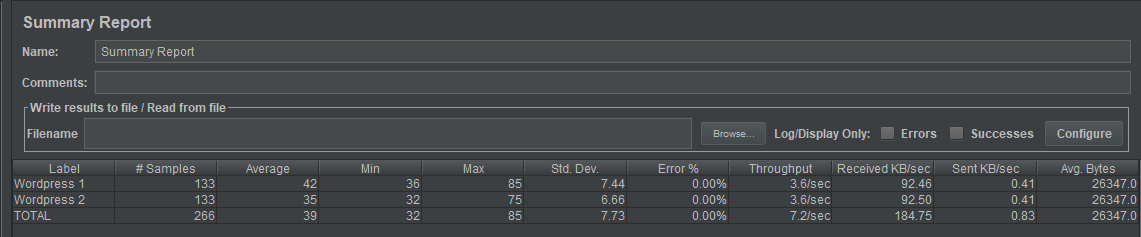
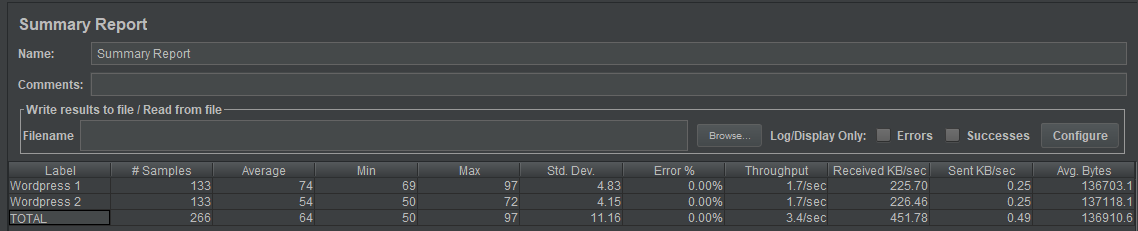
Mengganti Gambar

diff --git a/tugas-redis/README.md b/tugas-redis/README.md
@@ -12,6 +12,7 @@ Ferdinand Jason Gondowijoyo
     - [Pengujian 50 Koneksi](#pengujian-50-koneksi)
     - [Pengujian 133 Koneksi](#pengujian-133-koneksi)
     - [Pengujian 233 Koneksi](#pengujian-233-koneksi)
+    - [Kesimpulan dari Pengujian](#kesimpulan-dari-pengujian)
   - [Proses Fail Over](#proses-fail-over)
     - [Simulasi Redis Master Down](#simulasi-redis-master-down)
     - [Proses Fail Over](#proses-fail-over-1)
@@ -362,7 +363,9 @@ Tahap instalasi wordpress bisa dilakukan dengan membuka browser dengan url : `<a
    ![Redis Installed](img/Redis%20Cache%20Object%20Wordpress%20Installed.PNG)
 2. Tambahkans Konfigurasi pada `/var/www/html/wp-config.php` pada server `wordpress1`, kemudian tambahkan line berikut
    ```
-   define('WP_REDIS_HOST', '192.168.16.35');
+    define('FS_METHOD', 'direct');
+    define('WP_REDIS_SENTINEL', 'redis-cluster');
+    define('WP_REDIS_SERVERS', ['tcp://192.168.16.35:26379', 'tcp://192.168.16.36:26379', 'tcp://192.168.16.37:26379']);
    ```
 3. Aktifkan Redis Cache Plugin\
    Kemudian lihat pada bagian `Diagnostics` agar seperti pada Gambar berikut.
@@ -381,6 +384,8 @@ Langkah selanjutnya adalah pengujian JMeter, sebelum menginstall JMeter pastikan
 ### Pengujian 233 Koneksi
 ![J233](img/JMeter%20233.PNG)
 
+### Kesimpulan dari Pengujian
+Berdasarkan data yang telah didapatkan, didapatkan bahwa wordpress Redis Object Cache lebih lambar dari pada yang tidak menggunakan Redis Object Cache, hal ini terjadi kemungkinan karena jumlah permintaan ke server `redis` lebih banyak dari pada jumlah permintaan ke `mysql` sehinga menyebabkan overheat pada server `redis`. Saran kedepannya adalah menambah RAM maupun Storage pada `redis` karena `redis` merupakan in-memory data storage.
 
 ## Proses Fail Over
 ### Simulasi Redis Master Down
